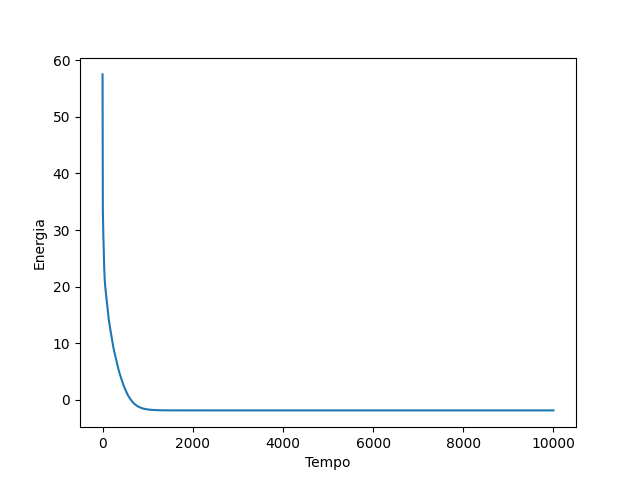
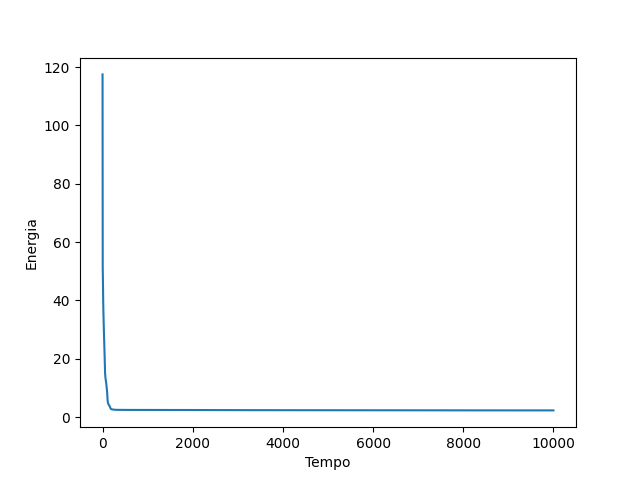
Adição de um arquivo que aleatoariza a escolha dos protótipos dentro de um dataset

diff --git a/src/aleatorizar_dados.py b/src/aleatorizar_dados.py
@@ -1,0 +1,116 @@
+import opfython.math.general as g
+import opfython.stream.parser as p
+import opfython.stream.splitter as s
+from opfython.models import SupervisedOPF
+from opfython.stream import loader
+from qsupervised import QSupervisedOPF
+import numpy as np
+
+# Outras importações
+import pdb #biblioteca para debugar
+# pdb.set_trace() # comando para debugar
+
+##################################################################################
+
+# Carregar um arquivo .txt para um array numpy
+try:
+    txt = loader.load_txt("dados/boat.txt")
+except Exception as e:
+    raise RuntimeError('Error on load txt')
+
+# Verificação do arquivo txt (caso ele volte vazio)
+if txt is None:
+    raise RuntimeError('txt is None')
+
+# From third columns beyond, we should have the features
+X = txt[:, 2:]
+
+# Second column should be the label
+Y = txt[:, 1]
+Y = Y.astype(int)
+
+
+# Analisar um array numpy pré-carregado
+# X e Y conterão a segunda e terceira coluna do arquivo
+
+#X, Y = p.parse_loader(txt)
+
+# ------------------------------------------------------------
+
+# Escolher duas classes aleatórias com uma quantidade x de amostras cada uma
+
+num_classes = 2
+num_samples_per_class = 4
+
+# Get the unique classes from Y and their respective indices
+unique_classes = np.unique(Y)
+
+# Randomly choose two classes in order 
+random_classes = np.random.choice(unique_classes, size=num_classes, replace=False)
+
+# Ordenar random_classes
+random_classes = np.sort(random_classes)
+
+# Initialize empty lists to store the selected samples
+selected_X = []
+selected_Y = []
+label = 0
+
+# Iterate over each class
+for class_label in random_classes:
+    # Get the indices of samples belonging to the current class
+    class_indices = np.where(Y == class_label)[0]
+    
+    # Randomly select num_samples_per_class samples from the current class
+    selected_indices = np.random.choice(class_indices, size=num_samples_per_class, replace=False)
+    
+    # Append the selected samples to the selected_X and selected_Y lists
+    selected_X.extend(X[selected_indices])
+    selected_Y.extend(Y[selected_indices])
+    
+# Renumerar as classes começando em 0 até num_classes-1
+for i in range(len(selected_Y)):
+    if selected_Y[i] == random_classes[0]:
+        selected_Y[i] = 0
+    else:
+        selected_Y[i] = 1
+    
+# Convert the selected_X and selected_Y lists to numpy arrays
+selected_X = np.array(selected_X)
+selected_Y = np.array(selected_Y)
+
+# ------------------------------------------------------------
+
+# Use the selected samples for training and testing
+X_treino, X_teste, Y_treino, Y_teste = s.split(selected_X, selected_Y, percentage=0.5, random_state=1)
+
+# Dividir os dados em conjunto de treinamento e conjunto de testes
+#X_treino, X_teste, Y_treino, Y_teste = s.split(X, Y, percentage=0.5, random_state=1)
+
+# Criar uma instância de SupervisedOPF
+opf = SupervisedOPF(distance="log_squared_euclidean", pre_computed_distance=None)
+
+# Fits training data into the classifier
+opf.fit(X_treino, Y_treino)
+
+# Predicts new data
+preds = opf.predict(X_teste)
+
+# Calculating accuracy
+acc = g.opf_accuracy(Y_teste, preds)
+
+print(f"Accuracy: {acc}")
+
+q_opf = QSupervisedOPF(distance="log_squared_euclidean", pre_computed_distance=None)
+
+# Fits training data into the classifier
+q_opf.fit(X_treino, Y_treino)
+
+# Predicts new data
+preds_q = q_opf.predict(X_teste)
+
+# Calculating accuracy
+acc_q = g.opf_accuracy(Y_teste, preds_q)
+
+print(f"Accuracy Q: {acc_q}")
+

diff --git a/src/qsupervised.py b/src/qsupervised.py
@@ -104,7 +104,8 @@ class QSupervisedOPF(SupervisedOPF):
         # Criando as restrições do problema
 
         # Restrição 1: igualar número de arestas com número de vértices
-        P1 = 9
+        P1 = 9 # Peso da restrição para dataset boat
+        #P1 = 15  # Peso da restrição para dataset Breast Tissue
         R1 = 0
         for k in range(0, n_edge):
             R1 += zI[k]
@@ -112,7 +113,8 @@ class QSupervisedOPF(SupervisedOPF):
         R1 = P1*(R1 - n_nodes*Id)**2
 
         # Restrição 2: 2 arestas por nó
-        P2 = 7
+        P2 = 7 # Peso da restrição para dataset boat
+        #P2 = 20 # Peso da restrição para dataset Breast Tissue
         R2 = 0
         for k in range(1, n_nodes+1):
             somatorio = 0
@@ -127,10 +129,15 @@ class QSupervisedOPF(SupervisedOPF):
         # Adicioanr as restrições na função Hc
         
         Hc += R1 + R2
+        #print(Hc)
+        #print(np.diag(Hc))
         
         min_energia = np.min(np.diag(Hc))
+        #print(min_energia3)
+        
         idx_min_energia = np.unravel_index(np.argmin(np.diag(Hc)), np.diag(Hc).shape) 
         graph_min_energia = format(idx_min_energia[0], f'0{n_edge}b')
+        #print(graph_min_energia)
         
         # Resolver o problema QUBO com o algoritmo FALQON 
         dt=0.002
@@ -154,7 +161,7 @@ class QSupervisedOPF(SupervisedOPF):
         plt.xlabel('Tempo')
         plt.ylabel('Energia')
         
-        plt.savefig('EnergiaxTempo.png')
+        plt.savefig('EnergiaxTempo(datasetnovo).png')
         #plt.show()
         plt.close()
         
@@ -162,7 +169,7 @@ class QSupervisedOPF(SupervisedOPF):
         plt.xlabel('Estados')
         plt.ylabel('Probabilidades')
     
-        plt.savefig('Prob por estado.png')
+        plt.savefig('Prob por estado(datasetnovo).png')
         #plt.show()
         plt.close()
         
@@ -170,6 +177,7 @@ class QSupervisedOPF(SupervisedOPF):
         max_probs = np.max(probs)
         idx_max_probs = probs.index(max_probs)
         graph = format(idx_max_probs, f'0{n_edge}b')
+        logger.debug("Graph: %s.", graph)
         
         # Percorrer o grafo e selecionar os protótipos
         prototypes = []

diff --git a/src/main.py b/src/main.py
@@ -16,7 +16,7 @@ import pdb #biblioteca para debugar
 
 # Carregar um arquivo .txt para um array numpy
 try:
-    txt = loader.load_txt("dados/teste_5.txt")
+    txt = loader.load_txt("dados/teste_4_1.txt")
 except Exception as e:
     raise RuntimeError('Error on load txt')
 
